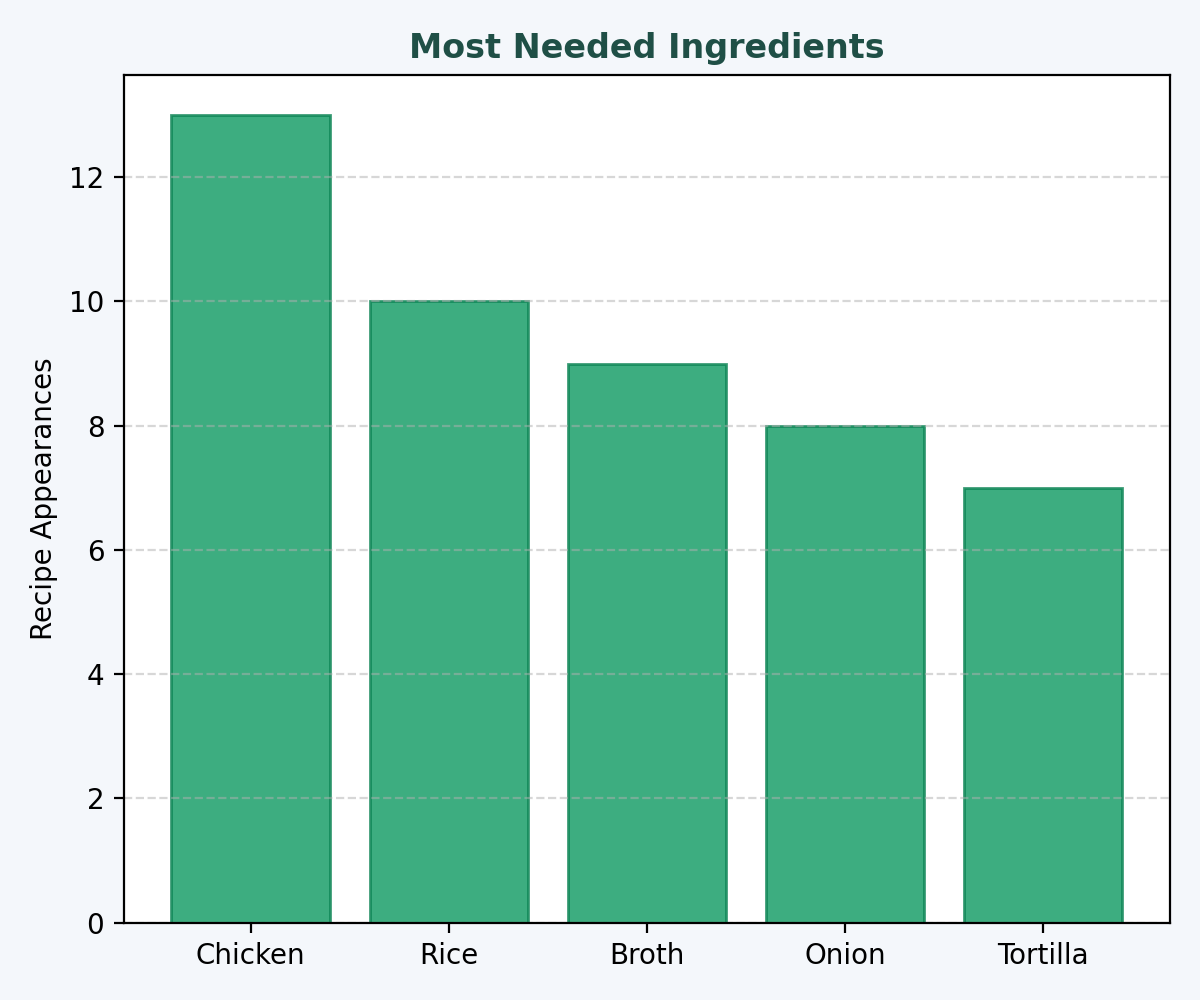
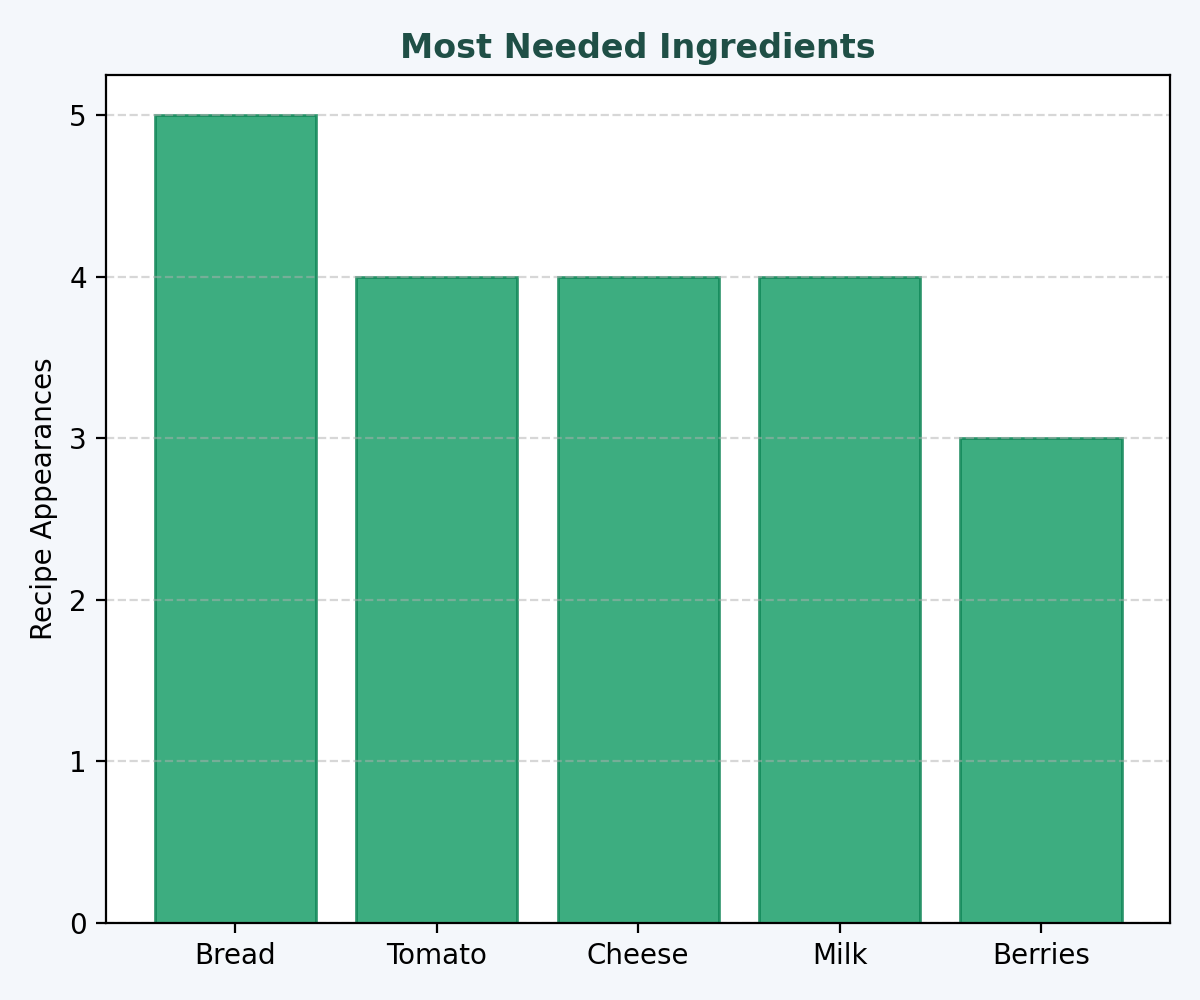
fix: spacing and categories fixes

diff --git a/Frinder/templates/index.html b/Frinder/templates/index.html
@@ -14,139 +14,131 @@
       <table class="quick-add-table">
         <tbody>
           <tr>
-            <th>Core</th>
+            <th>Dairy</th>
             <td>
-              <button type="submit" name="ingredient" value="flour" class="quick-add-btn">+ Flour</button>
-              <button type="submit" name="ingredient" value="milk" class="quick-add-btn">+ Milk</button>
               <button type="submit" name="ingredient" value="eggs" class="quick-add-btn">+ Eggs</button>
-              <button type="submit" name="ingredient" value="sugar" class="quick-add-btn">+ Sugar</button>
+              <button type="submit" name="ingredient" value="milk" class="quick-add-btn">+ Milk</button>
               <button type="submit" name="ingredient" value="butter" class="quick-add-btn">+ Butter</button>
               <button type="submit" name="ingredient" value="cheese" class="quick-add-btn">+ Cheese</button>
-              <button type="submit" name="ingredient" value="onion" class="quick-add-btn">+ Onion</button>
-              <button type="submit" name="ingredient" value="salt" class="quick-add-btn">+ Salt</button>
-              <button type="submit" name="ingredient" value="pasta" class="quick-add-btn">+ Pasta</button>
-              <button type="submit" name="ingredient" value="roll" class="quick-add-btn">+ Roll</button>
-              <button type="submit" name="ingredient" value="ham" class="quick-add-btn">+ Ham</button>
-              <button type="submit" name="ingredient" value="lemon juice" class="quick-add-btn">+ Lemon Juice</button>
-              <button type="submit" name="ingredient" value="apple" class="quick-add-btn">+ Apple</button>
-              <button type="submit" name="ingredient" value="garlic" class="quick-add-btn">+ Garlic</button>
+              <button type="submit" name="ingredient" value="yogurt" class="quick-add-btn">+ Yogurt</button>
+              <button type="submit" name="ingredient" value="cream" class="quick-add-btn">+ Cream</button>
+              <button type="submit" name="ingredient" value="cream cheese" class="quick-add-btn">+ Cream Cheese</button>
+              <button type="submit" name="ingredient" value="parmesan" class="quick-add-btn">+ Parmesan</button>
+              <button type="submit" name="ingredient" value="mozzarella" class="quick-add-btn">+ Mozzarella</button>
+              <button type="submit" name="ingredient" value="feta" class="quick-add-btn">+ Feta</button>
             </td>
           </tr>
 
           <tr>
-            <th>Meat & Fish</th>
+            <th>Vegetables</th>
+            <td>
+              <button type="submit" name="ingredient" value="onion" class="quick-add-btn">+ Onion</button>
+              <button type="submit" name="ingredient" value="garlic" class="quick-add-btn">+ Garlic</button>
+              <button type="submit" name="ingredient" value="tomato" class="quick-add-btn">+ Tomato</button>
+              <button type="submit" name="ingredient" value="potato" class="quick-add-btn">+ Potato</button>
+              <button type="submit" name="ingredient" value="carrot" class="quick-add-btn">+ Carrot</button>
+              <button type="submit" name="ingredient" value="lettuce" class="quick-add-btn">+ Lettuce</button>
+              <button type="submit" name="ingredient" value="cucumber" class="quick-add-btn">+ Cucumber</button>
+              <button type="submit" name="ingredient" value="celery" class="quick-add-btn">+ Celery</button>
+              <button type="submit" name="ingredient" value="cabbage" class="quick-add-btn">+ Cabbage</button>
+              <button type="submit" name="ingredient" value="mushrooms" class="quick-add-btn">+ Mushrooms</button>
+              <button type="submit" name="ingredient" value="peppers" class="quick-add-btn">+ Peppers</button>
+              <button type="submit" name="ingredient" value="pumpkin" class="quick-add-btn">+ Pumpkin</button>
+              <button type="submit" name="ingredient" value="herbs" class="quick-add-btn">+ Herbs</button>
+            </td>
+          </tr>
+
+          <tr>
+            <th>Fruits</th>
+            <td>
+              <button type="submit" name="ingredient" value="apple" class="quick-add-btn">+ Apple</button>
+              <button type="submit" name="ingredient" value="banana" class="quick-add-btn">+ Banana</button>
+              <button type="submit" name="ingredient" value="berries" class="quick-add-btn">+ Berries</button>
+              <button type="submit" name="ingredient" value="fruit" class="quick-add-btn">+ Fruit</button>
+              <button type="submit" name="ingredient" value="lemon" class="quick-add-btn">+ Lemon</button>
+              <button type="submit" name="ingredient" value="lemon juice" class="quick-add-btn">+ Lemon Juice</button>
+              <button type="submit" name="ingredient" value="avocado" class="quick-add-btn">+ Avocado</button>
+            </td>
+          </tr>
+
+          <tr>
+            <th>Meat</th>
             <td>
               <button type="submit" name="ingredient" value="beef" class="quick-add-btn">+ Beef</button>
-              <button type="submit" name="ingredient" value="shrimp" class="quick-add-btn">+ Shrimp</button>
-              <button type="submit" name="ingredient" value="potato" class="quick-add-btn">+ Potato</button>
-              <button type="submit" name="ingredient" value="tomato" class="quick-add-btn">+ Tomato</button>
               <button type="submit" name="ingredient" value="pork" class="quick-add-btn">+ Pork</button>
-              <button type="submit" name="ingredient" value="soy sauce" class="quick-add-btn">+ Soy Sauce</button>
-              <button type="submit" name="ingredient" value="salmon" class="quick-add-btn">+ Salmon</button>
               <button type="submit" name="ingredient" value="lamb" class="quick-add-btn">+ Lamb</button>
               <button type="submit" name="ingredient" value="chicken" class="quick-add-btn">+ Chicken</button>
-              <button type="submit" name="ingredient" value="sausages" class="quick-add-btn">+ Sausages</button>
+              <button type="submit" name="ingredient" value="turkey" class="quick-add-btn">+ Turkey</button>
+              <button type="submit" name="ingredient" value="ham" class="quick-add-btn">+ Ham</button>
               <button type="submit" name="ingredient" value="bacon" class="quick-add-btn">+ Bacon</button>
+              <button type="submit" name="ingredient" value="sausage" class="quick-add-btn">+ Sausage</button>
+              <button type="submit" name="ingredient" value="sausages" class="quick-add-btn">+ Sausages</button>
+              <button type="submit" name="ingredient" value="meat" class="quick-add-btn">+ Meat</button>
+              <button type="submit" name="ingredient" value="meatballs" class="quick-add-btn">+ Meatballs</button>
               <button type="submit" name="ingredient" value="beans" class="quick-add-btn">+ Beans</button>
             </td>
           </tr>
 
           <tr>
-            <th>Breakfast</th>
+            <th>Fish and Seafood</th>
             <td>
+              <button type="submit" name="ingredient" value="salmon" class="quick-add-btn">+ Salmon</button>
+              <button type="submit" name="ingredient" value="shrimp" class="quick-add-btn">+ Shrimp</button>
+              <button type="submit" name="ingredient" value="tuna" class="quick-add-btn">+ Tuna</button>
+              <button type="submit" name="ingredient" value="fish" class="quick-add-btn">+ Fish</button>
+              <button type="submit" name="ingredient" value="trout" class="quick-add-btn">+ Trout</button>
+            </td>
+          </tr>
+
+          <tr>
+            <th>Grains</th>
+            <td>
+              <button type="submit" name="ingredient" value="flour" class="quick-add-btn">+ Flour</button>
+              <button type="submit" name="ingredient" value="pasta" class="quick-add-btn">+ Pasta</button>
+              <button type="submit" name="ingredient" value="roll" class="quick-add-btn">+ Roll</button>
+              <button type="submit" name="ingredient" value="rice" class="quick-add-btn">+ Rice</button>
+              <button type="submit" name="ingredient" value="bread" class="quick-add-btn">+ Bread</button>
               <button type="submit" name="ingredient" value="oats" class="quick-add-btn">+ Oats</button>
-              <button type="submit" name="ingredient" value="berries" class="quick-add-btn">+ Berries</button>
-              <button type="submit" name="ingredient" value="avocado" class="quick-add-btn">+ Avocado</button>
-              <button type="submit" name="ingredient" value="tortilla" class="quick-add-btn">+ Tortilla</button>
               <button type="submit" name="ingredient" value="granola" class="quick-add-btn">+ Granola</button>
-              <button type="submit" name="ingredient" value="banana" class="quick-add-btn">+ Banana</button>
+              <button type="submit" name="ingredient" value="macaroni" class="quick-add-btn">+ Macaroni</button>
+              <button type="submit" name="ingredient" value="spaghetti" class="quick-add-btn">+ Spaghetti</button>
+              <button type="submit" name="ingredient" value="lasagna sheets" class="quick-add-btn">+ Lasagna Sheets</button>
+              <button type="submit" name="ingredient" value="noodles" class="quick-add-btn">+ Noodles</button>
+              <button type="submit" name="ingredient" value="tortilla" class="quick-add-btn">+ Tortilla</button>
+              <button type="submit" name="ingredient" value="bagel" class="quick-add-btn">+ Bagel</button>
+              <button type="submit" name="ingredient" value="pita" class="quick-add-btn">+ Pita</button>
+              <button type="submit" name="ingredient" value="buns" class="quick-add-btn">+ Buns</button>
+            </td>
+          </tr>
+
+          <tr>
+            <th>Other</th>
+            <td>
+              <button type="submit" name="ingredient" value="sugar" class="quick-add-btn">+ Sugar</button>
+              <button type="submit" name="ingredient" value="broth" class="quick-add-btn">+ Broth</button>
               <button type="submit" name="ingredient" value="chia seeds" class="quick-add-btn">+ Chia Seeds</button>
               <button type="submit" name="ingredient" value="honey" class="quick-add-btn">+ Honey</button>
-              <button type="submit" name="ingredient" value="bagel" class="quick-add-btn">+ Bagel</button>
-              <button type="submit" name="ingredient" value="cream cheese" class="quick-add-btn">+ Cream Cheese</button>
-              <button type="submit" name="ingredient" value="sausage" class="quick-add-btn">+ Sausage</button>
-              <button type="submit" name="ingredient" value="peanut butter" class="quick-add-btn">+ Peanut Butter</button>
               <button type="submit" name="ingredient" value="cinnamon" class="quick-add-btn">+ Cinnamon</button>
-            </td>
-          </tr>
-
-          <tr>
-            <th>Lunch</th>
-            <td>
-              <button type="submit" name="ingredient" value="lettuce" class="quick-add-btn">+ Lettuce</button>
               <button type="submit" name="ingredient" value="caesar dressing" class="quick-add-btn">+ Caesar Dressing</button>
-              <button type="submit" name="ingredient" value="turkey" class="quick-add-btn">+ Turkey</button>
-              <button type="submit" name="ingredient" value="broth" class="quick-add-btn">+ Broth</button>
-              <button type="submit" name="ingredient" value="cream" class="quick-add-btn">+ Cream</button>
               <button type="submit" name="ingredient" value="mayonnaise" class="quick-add-btn">+ Mayonnaise</button>
-              <button type="submit" name="ingredient" value="tuna" class="quick-add-btn">+ Tuna</button>
-              <button type="submit" name="ingredient" value="cucumber" class="quick-add-btn">+ Cucumber</button>
               <button type="submit" name="ingredient" value="hummus" class="quick-add-btn">+ Hummus</button>
-              <button type="submit" name="ingredient" value="feta" class="quick-add-btn">+ Feta</button>
               <button type="submit" name="ingredient" value="olives" class="quick-add-btn">+ Olives</button>
-              <button type="submit" name="ingredient" value="macaroni" class="quick-add-btn">+ Macaroni</button>
-              <button type="submit" name="ingredient" value="rice" class="quick-add-btn">+ Rice</button>
               <button type="submit" name="ingredient" value="sauce" class="quick-add-btn">+ Sauce</button>
-            </td>
-          </tr>
-
-          <tr>
-            <th>Dinner</th>
-            <td>
-              <button type="submit" name="ingredient" value="pita" class="quick-add-btn">+ Pita</button>
-              <button type="submit" name="ingredient" value="mozzarella" class="quick-add-btn">+ Mozzarella</button>
+              <button type="submit" name="ingredient" value="soy sauce" class="quick-add-btn">+ Soy Sauce</button>
               <button type="submit" name="ingredient" value="basil" class="quick-add-btn">+ Basil</button>
-              <button type="submit" name="ingredient" value="noodles" class="quick-add-btn">+ Noodles</button>
-              <button type="submit" name="ingredient" value="carrot" class="quick-add-btn">+ Carrot</button>
-              <button type="submit" name="ingredient" value="sour cream" class="quick-add-btn">+ Sour Cream</button>
-              <button type="submit" name="ingredient" value="flatbread" class="quick-add-btn">+ Flatbread</button>
-              <button type="submit" name="ingredient" value="tomato sauce" class="quick-add-btn">+ Tomato Sauce</button>
-              <button type="submit" name="ingredient" value="toppings" class="quick-add-btn">+ Toppings</button>
-              <button type="submit" name="ingredient" value="fish" class="quick-add-btn">+ Fish</button>
               <button type="submit" name="ingredient" value="croutons" class="quick-add-btn">+ Croutons</button>
-              <button type="submit" name="ingredient" value="parmesan" class="quick-add-btn">+ Parmesan</button>
               <button type="submit" name="ingredient" value="pesto" class="quick-add-btn">+ Pesto</button>
-            </td>
-          </tr>
-
-          <tr>
-            <th>Specials</th>
-            <td>
-              <button type="submit" name="ingredient" value="meatballs" class="quick-add-btn">+ Meatballs</button>
               <button type="submit" name="ingredient" value="breadcrumbs" class="quick-add-btn">+ Breadcrumbs</button>
-              <button type="submit" name="ingredient" value="meat" class="quick-add-btn">+ Meat</button>
-              <button type="submit" name="ingredient" value="mushrooms" class="quick-add-btn">+ Mushrooms</button>
-              <button type="submit" name="ingredient" value="celery" class="quick-add-btn">+ Celery</button>
-              <button type="submit" name="ingredient" value="paprika" class="quick-add-btn">+ Paprika</button>
-              <button type="submit" name="ingredient" value="lasagna sheets" class="quick-add-btn">+ Lasagna Sheets</button>
-              <button type="submit" name="ingredient" value="buns" class="quick-add-btn">+ Buns</button>
               <button type="submit" name="ingredient" value="mustard" class="quick-add-btn">+ Mustard</button>
               <button type="submit" name="ingredient" value="curry paste" class="quick-add-btn">+ Curry Paste</button>
               <button type="submit" name="ingredient" value="coconut milk" class="quick-add-btn">+ Coconut Milk</button>
-              <button type="submit" name="ingredient" value="trout" class="quick-add-btn">+ Trout</button>
-              <button type="submit" name="ingredient" value="cabbage" class="quick-add-btn">+ Cabbage</button>
-              <button type="submit" name="ingredient" value="pepper" class="quick-add-btn">+ Pepper</button>
-              <button type="submit" name="ingredient" value="pumpkin" class="quick-add-btn">+ Pumpkin</button>
-              <button type="submit" name="ingredient" value="chili" class="quick-add-btn">+ Chili</button>
+              <button type="submit" name="ingredient" value="tomato sauce" class="quick-add-btn">+ Tomato Sauce</button>
+              <button type="submit" name="ingredient" value="sour cream" class="quick-add-btn">+ Sour Cream</button>
+              <button type="submit" name="ingredient" value="flatbread" class="quick-add-btn">+ Flatbread</button>
               <button type="submit" name="ingredient" value="peanuts" class="quick-add-btn">+ Peanuts</button>
-              <button type="submit" name="ingredient" value="spices" class="quick-add-btn">+ Spices</button>
-              <button type="submit" name="ingredient" value="peppers" class="quick-add-btn">+ Peppers</button>
               <button type="submit" name="ingredient" value="teriyaki sauce" class="quick-add-btn">+ Teriyaki Sauce</button>
             </td>
           </tr>
-
-          <tr>
-            <th>Extras</th>
-            <td>
-              <button type="submit" name="ingredient" value="lemon" class="quick-add-btn">+ Lemon</button>
-              <button type="submit" name="ingredient" value="vinegar" class="quick-add-btn">+ Vinegar</button>
-              <button type="submit" name="ingredient" value="fruit" class="quick-add-btn">+ Fruit</button>
-              <button type="submit" name="ingredient" value="lemon juice" class="quick-add-btn">+ Lemon Juice</button>
-              <button type="submit" name="ingredient" value="oats" class="quick-add-btn">+ Oats</button>
-              <button type="submit" name="ingredient" value="herbs" class="quick-add-btn">+ Herbs</button>
-            </td>
-          </tr>
-
         </tbody>
       </table>
     </details>

diff --git a/Frinder/static/style.css b/Frinder/static/style.css
@@ -253,7 +253,9 @@ button {
 .favourites-grid {
   display: grid;
   grid-template-columns: repeat(3, minmax(0, 1fr));
-  gap: 20px;
+  column-gap: 30px;
+  row-gap: 52px;
+  align-items: start;
 }
 
 .recipe-card {
@@ -263,7 +265,8 @@ button {
   min-height: 100%;
   gap: 14px;
   margin-top: 0;
-  padding: 22px;
+  margin-bottom: 12px;
+  padding: 24px;
   background: white;
   border: 1px solid #e2e8f0;
   border-radius: 14px;
@@ -402,7 +405,7 @@ button {
 
 .recipe-card__actions {
   margin-top: auto;
-  padding-top: 10px;
+  padding-top: 30px;
 }
 
 .recipe-card__actions form {
@@ -602,11 +605,15 @@ button {
 .shopping-recipe-list {
   display: grid;
   grid-template-columns: repeat(3, minmax(0, 1fr));
-  gap: 16px;
+  gap: 10px;
+  margin-top: 10px;
+  align-items: start;
 }
 
 .shopping-recipe {
   border-top: 5px solid #1f4f46;
+  padding: 18px;
+  box-sizing: border-box;
 }
 
 .shopping-recipe .recipe-card__actions {
@@ -616,6 +623,18 @@ button {
 
 .shopping-recipe .shopping-button {
   width: 100%;
+}
+
+.shopping-recipe .recipe-card__section {
+  margin-bottom: 8px;
+}
+
+.shopping-recipe .recipe-card__list {
+  margin-top: 6px;
+}
+
+.shopping-recipe .recipe-card__title {
+  margin-bottom: 6px;
 }
 
 .homepage-header {

diff --git a/Frinder/matching.py b/Frinder/matching.py
@@ -22,40 +22,63 @@ DIETARY_RESTRICTION_CONFLICTS = {
     "vegetarian": {
         "bacon",
         "beef",
+        "broth",
         "chicken",
         "fish",
         "ham",
-        "lamb",
+        "meat",
+        "meatballs",
         "pork",
         "salmon",
         "sausage",
+        "sausages",
         "shrimp",
+        "sour cream",
+        "trout",
         "tuna",
         "turkey",
+        "anchovies",
+        "lard",
     },
     "vegan": {
         "bacon",
         "beef",
+        "broth",
         "butter",
+        "caesar dressing",
         "cheese",
         "chicken",
         "cream",
+        "cream cheese",
         "eggs",
         "fish",
+        "feta",
         "ham",
         "honey",
         "lamb",
+        "mayonnaise",
+        "meat",
+        "meatballs",
         "milk",
+        "mozzarella",
+        "parmesan",
         "pork",
         "salmon",
         "sausage",
+        "sausages",
         "shrimp",
+        "sour cream",
+        "trout",
         "tuna",
         "turkey",
         "yogurt",
+        "lard",
+        "gelatin",
+        "worcestershire sauce",
+        "anchovies",
     },
-    "dairy-free": {"butter", "cheese", "cream", "milk", "yogurt"},
-    "gluten-free": {"bread", "flour", "pasta", "roll", "wheat"},
+    "dairy-free": {"butter", "cheese", "cream", "milk", "yogurt", "cream cheese", "feta", "mozzarella", "parmesan", "sour cream"},
+    "gluten-free": {"bread", "flour", "pasta", "roll", "wheat", "bagel", "buns", "flatbread", "lasagna sheets", "macaroni", "noodles", "spaghetti", "tortilla"},
     "egg-free": {"egg", "eggs"},
     "nut-free": {
         "almond",
@@ -65,6 +88,7 @@ DIETARY_RESTRICTION_CONFLICTS = {
         "hazelnut",
         "hazelnuts",
         "peanut",
+        "peanut butter",
         "peanuts",
         "pecan",
         "pecans",
